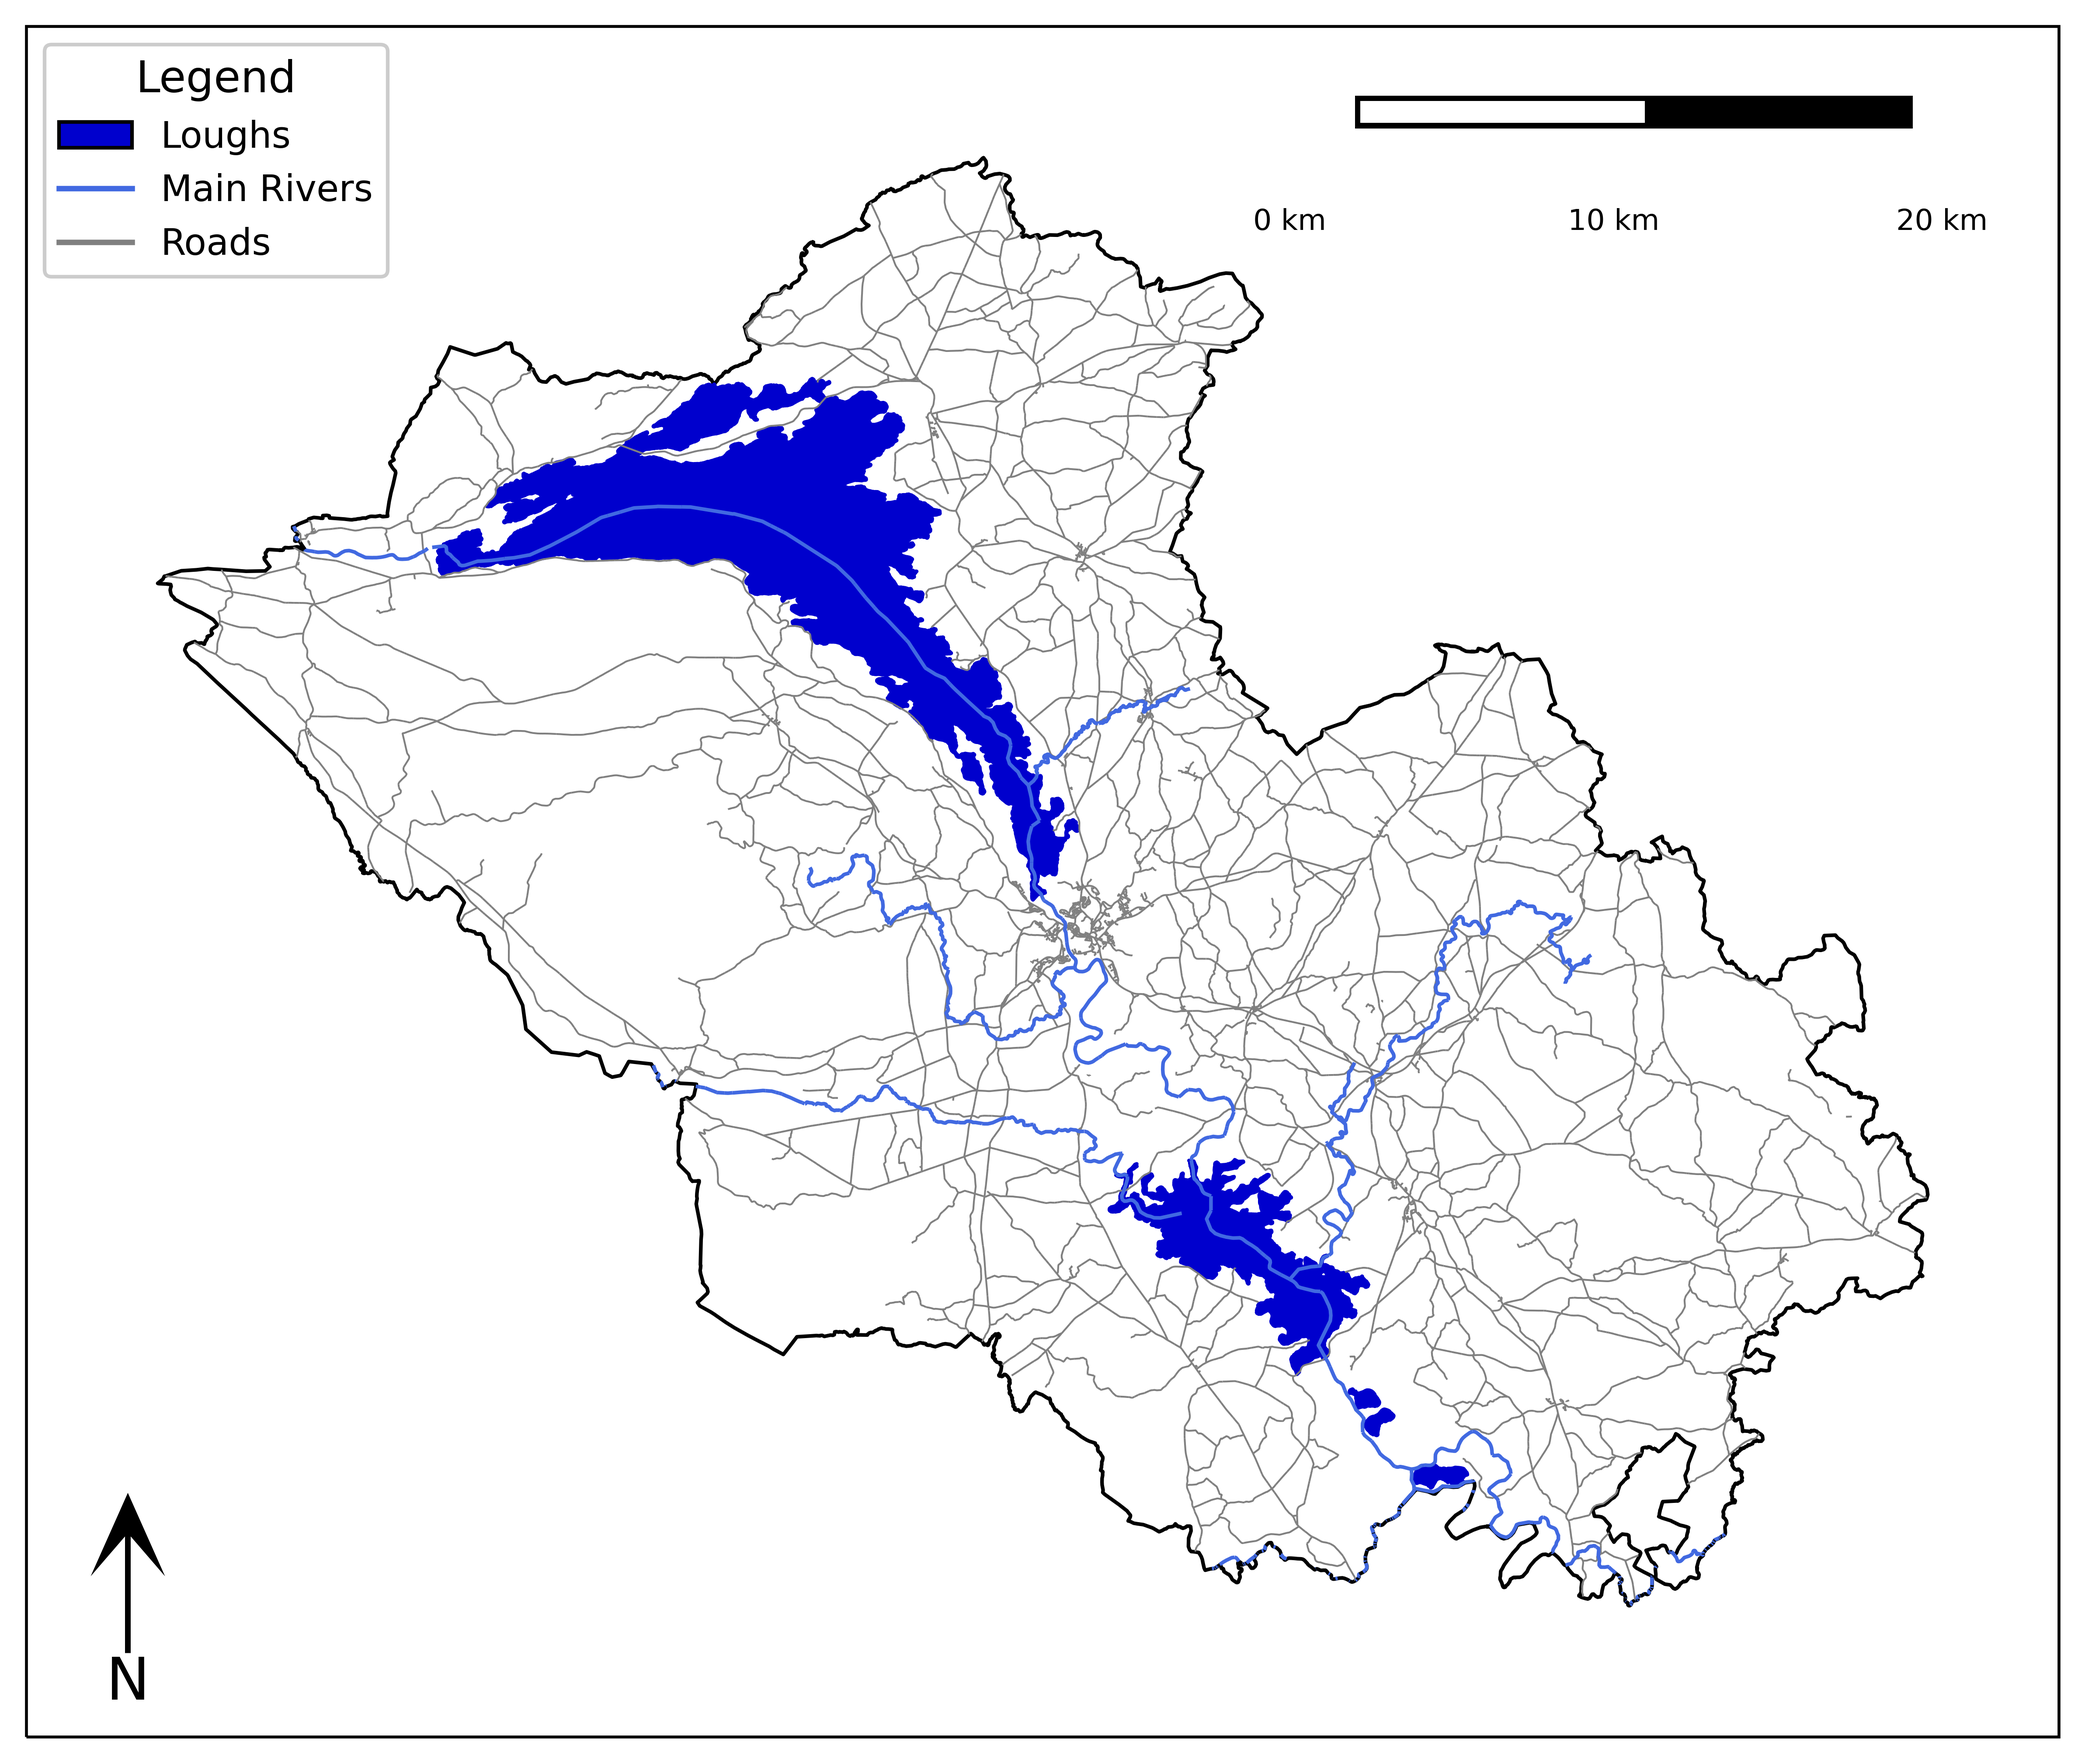
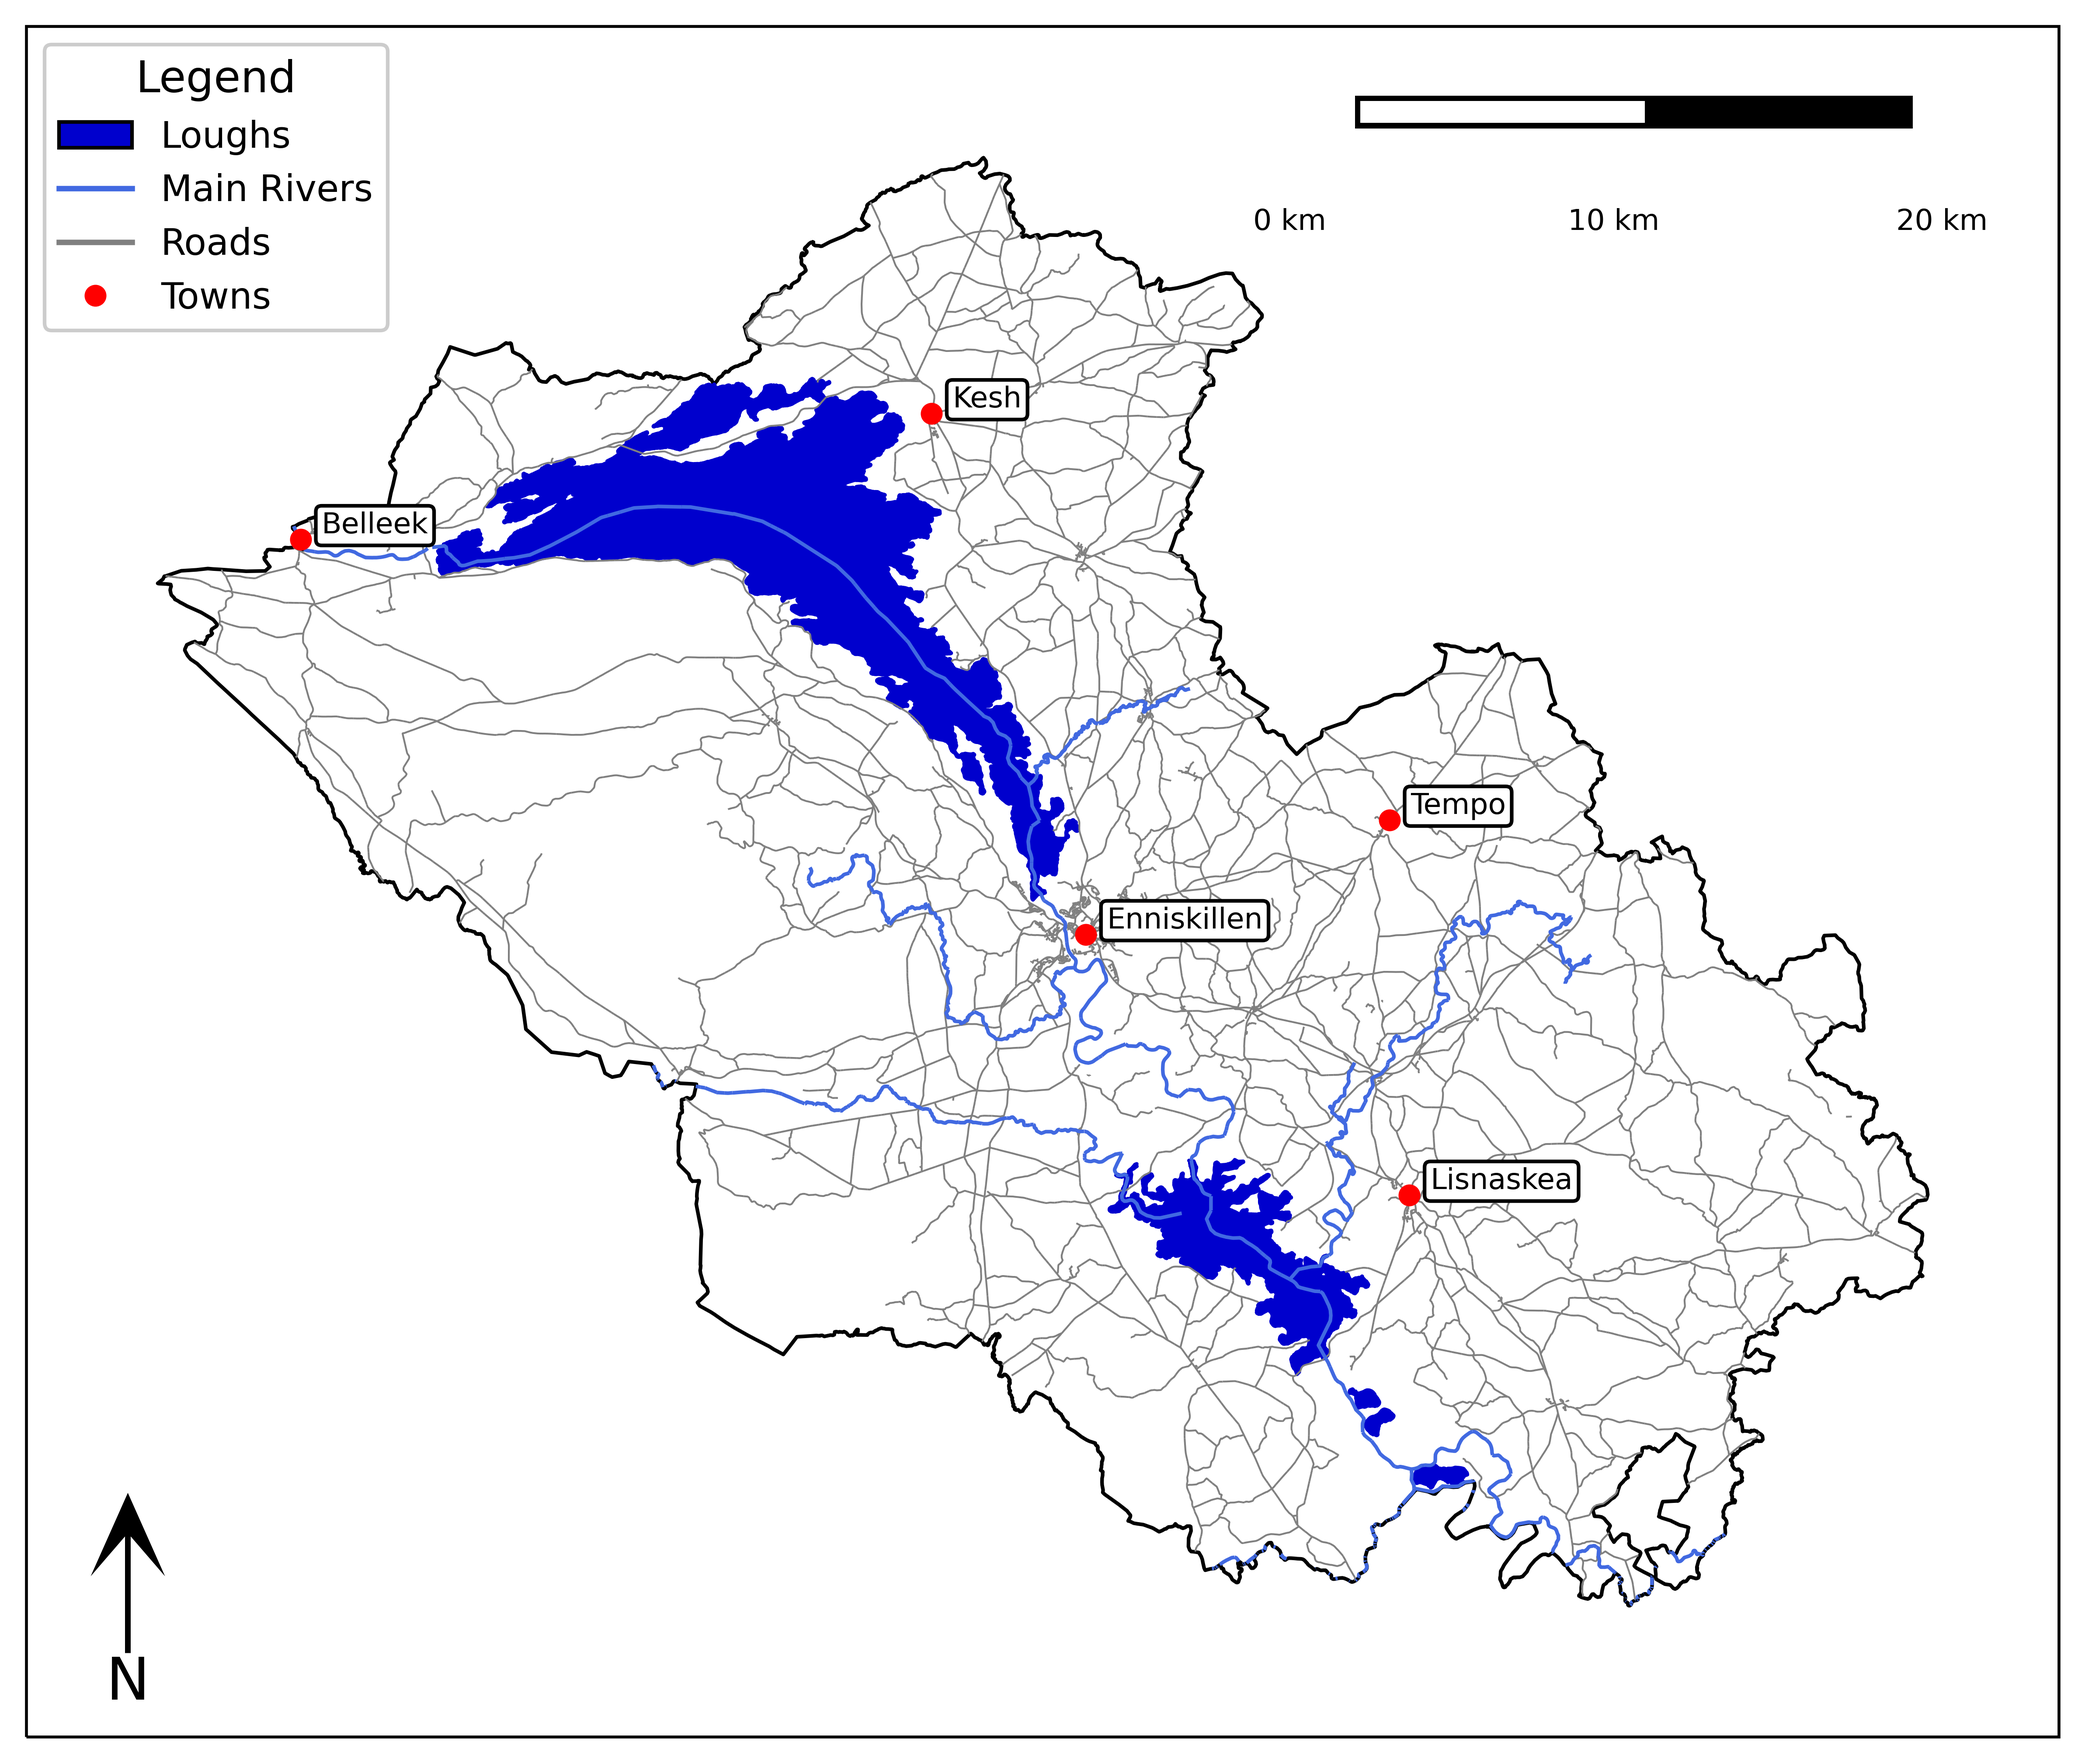
added towns to study area map

diff --git a/Fermanagh_Map.py b/Fermanagh_Map.py
@@ -5,6 +5,7 @@ from cartopy.feature import ShapelyFeature
 import cartopy.crs as ccrs
 import matplotlib.patches as mpatches
 import matplotlib.lines as mlines
+import pandas as pd
 
 # Make the map plotting interactive
 plt.ion()
@@ -36,6 +37,7 @@ outline = gpd.read_file(os.path.abspath('data_files/Fermanagh_DCA.shp'))
 loughs = gpd.read_file(os.path.abspath('data_files/major_loughs.shp'))
 roads = gpd.read_file(os.path.abspath('data_files/Fermanagh roads.shp'))
 rivers = gpd.read_file(os.path.abspath('data_files/fermanagh_main_river.shp'))
+towns = gpd.read_file(os.path.abspath('data_files/Fermanagh_towns.shp'))
 
 # Creates a figure of size 10x10 inches
 myFig = plt.figure(figsize=(10, 10))
@@ -72,6 +74,15 @@ river_features = ShapelyFeature(rivers['geometry'],
                                 facecolor='none',
                                 linewidth=1)
 
+# Create a point on the map for each of the towns
+town_handle = ax.plot(towns.geometry.x, towns.geometry.y, 'o', color='red',
+                      ms=5, transform=myCRS)
+
+for i, town in towns.iterrows():
+    ax.text(town.geometry.x +800 , town.geometry.y, town['Name'], color='black',
+            fontsize=8, ha='left', va='bottom', transform=myCRS,
+    bbox = dict(facecolor='white', edgecolor='black', boxstyle='round,pad=0.2'))
+
 # Generate loughs handle
 lough_handle = generate_handles(['Loughs'], ['mediumblue'])
 
@@ -82,8 +93,8 @@ river_handle = [mlines.Line2D([], [], color='royalblue')]
 road_handle = [mlines.Line2D([], [], color='grey')]
 
 # Create the legend
-handles = lough_handle + river_handle + road_handle
-lables = ['Loughs', 'Main Rivers', 'Roads']
+handles = lough_handle + river_handle + road_handle + town_handle
+lables = ['Loughs', 'Main Rivers', 'Roads', 'Towns']
 
 leg = ax.legend(handles, lables, title='Legend', title_fontsize=12,
                 fontsize=10, loc='upper left', frameon=True, framealpha=1)
